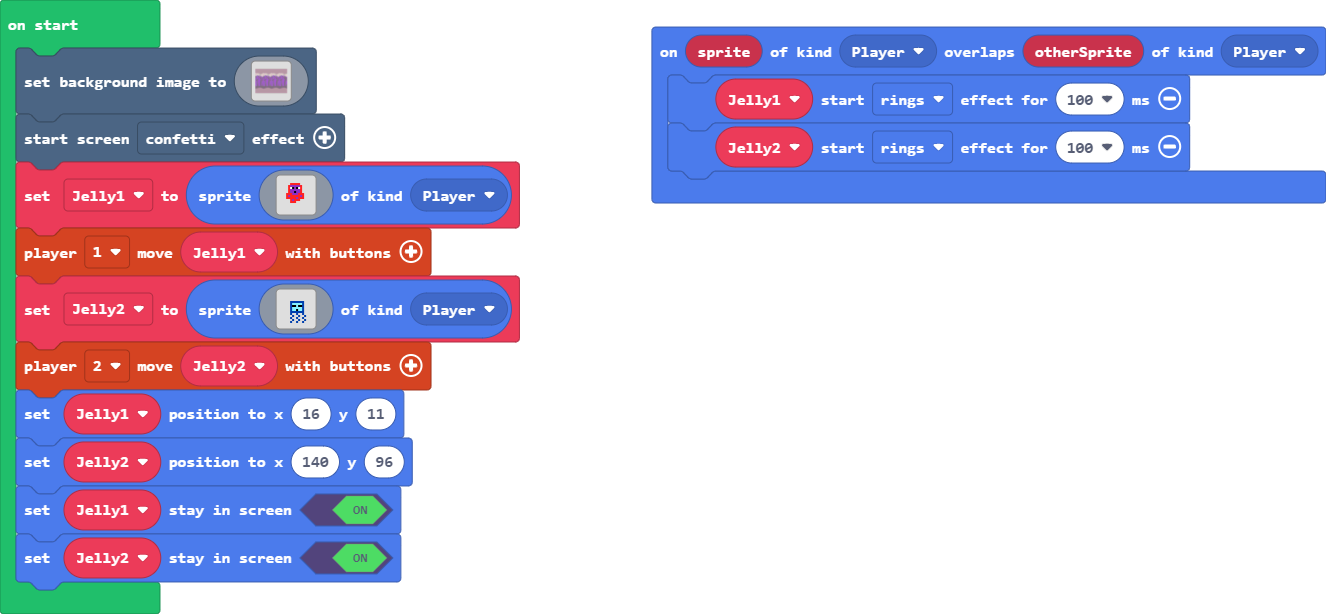
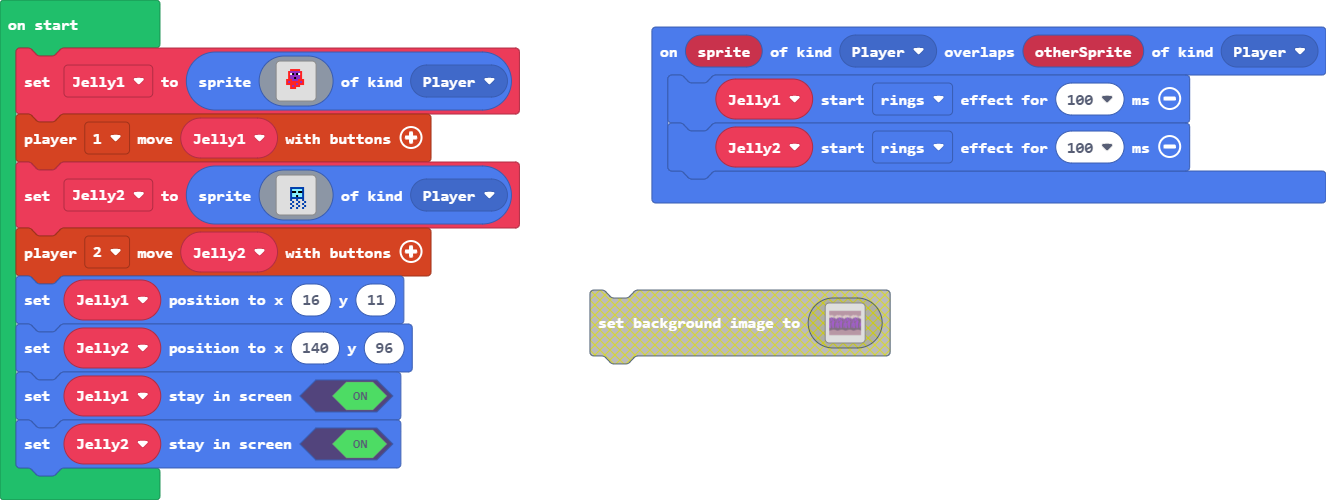
Update main.blocks, main.ts

diff --git a/main.ts b/main.ts
@@ -4,129 +4,6 @@ sprites.onOverlap(SpriteKind.Player, SpriteKind.Player, function (sprite, otherS
 })
 let Jelly2: Sprite = null
 let Jelly1: Sprite = null
-scene.setBackgroundImage(img`
-    bbbbbbbbbbbbbbbbbbbbbbbbbbbbbbbbbbbbbbbbbbbbbbbbbbbbbbbbbbbbbbbbbbbbbbbbbbbbbbbbbbbbbbbbbbbbbbbbbbbbbbbbbbbbbbbbbbbbbbbbbbbbbbbbbbbbbbbbbbbbbbbbbbbbbbbbbbbbbbbb
-    bbbbbbbbbbbbbbbbbbbbbbbbbbbbbbbbbbbbbbbbbbbbbbbbbbbbbbbbbbbbbbbbbbbbbbbbbbbbbbbbbbbbbbbbbbbbbbbbbbbbbbbbbbbbbbbbbbbbbbbbbbbbbbbbbbbbbbbbbbbbbbbbbbbbbbbbbbbbbbbb
-    bbbbbbbbbbbbbbbbbbbbbbbbbbbbbbbbbbbbbbbbbbbbbbbbbbbbbbbbbbbbbbbbbbbbbbbbbbbbbbbbbbbbbbbbbbbbbbbbbbbbbbbbbbbbbbbbbbbbbbbbbbbbbbbbbbbbbbbbbbbbbbbbbbbbbbbbbbbbbbbb
-    bbbbbbbbbbbbbbbbbbbbbbbbbbbbbbbbbbbbbbbbbbbbbbbbbbbbbbbbbbbbbbbbbbbbbbbbbbbbbbbbbbbbbbbbbbbbbbbbbbbbbbbbbbbbbbbbbbbbbbbbbbbbbbbbbbbbbbbbbbbbbbbbbbbbbbbbbbbbbbbb
-    bbbbbbbbbbbbbbbbbbbbbbbbbbbbbbbbbbbbbbbbbbbbbbbbbbbbbbbbbbbbbbbbbbbbbbbbbbbbbbbbbbbbbbbbbbbbbbbbbbbbbbbbbbbbbbbbbbbbbbbbbbbbbbbbbbbbbbbbbbbbbbbbbbbbbbbbbbbbbbbb
-    bbbbbbbbbbbbbbbbbbbbbbbbbbbbbbbbbbbbbbbbbbbbbbbbbbbbbbbbbbbbbbbbbbbbbbbbbbbbbbbbbbbbbbbbbbbbbbbbbbbbbbbbbbbbbbbbbbbbbbbbbbbbbbbbbbbbbbbbbbbbbbbbbbbbbbbbbbbbbbbb
-    bbbbbbbbbbbbbbbbbbbbbbbbbbbbbbbbbbbbbbbbbbbbbbbbbbbbbbbbbbbbbbbbbbbbbbbbbbbbbbbbbbbbbbbbbbbbbbbbbbbbbbbbbbbbbbbbbbbbbbbbbbbbbbbbbbbbbbbbbbbbbbbbbbbbbbbbbbbbbbbb
-    bbbbbbbbbbbbbbbbbbbbbbbbbbbbbbbbbbbbbbbbbbbbbbbbbbbbbbbbbbbbbbbbbbbbbbbbbbbbbbbbbbbbbbbbbbbbbbbbbbbbbbbbbbbbbbbbbbbbbbbbbbbbbbbbbbbbbbbbbbbbbbbbbbbbbbbbbbbbbbbb
-    bbbbbbbbbbbbbbbbbbbbbbbbbbbbbbbbbbbbbbbbbbbbbbbbbbbbbbbbbbbbbbbbbbbbbbbbbbbbbbbbbbbbbbbbbbbbbbbbbbbbbbbbbbbbbbbbbbbbbbbbbbbbbbbbbbbbbbbbbbbbbbbbbbbbbbbbbbbbbbbb
-    bbbbbbbbbbbbbbbbbbbbbbbbbbbbbbbbbbbbbbbbbbbbbbbbbbbbbbbbbbbbbbbbbbbbbbbbbbbbbbbbbbbbbbbbbbbbbbbbbbbbbbbbbbbbbbbbbbbbbbbbbbbbbbbbbbbbbbbbbbbbbbbbbbbbbbbbbbbbbbbb
-    bbbbbbbbbbbbbbbbbbbbbbbbbbbbbbbbbbbbbbbbbbbbbbbbbbbbbbbbbbbbbbbbbbbbbbbbbbbbbbbbbbbbbbbbbbbbbbbbbbbbbbbbbbbbbbbbbbbbbbbbbbbbbbbbbbbbbbbbbbbbbbbbbbbbbbbbbbbbbbbb
-    bbbbbbbbbbbbbbbbbbbbbbbbbbbbbbbbbbbbbbbbbbbbbbbbbbbbbbbbbbbbbbbbbbbbbbbbbbbbbbbbbbbbbbbbbbbbbbbbbbbbbbbbbbbbbbbbbbbbbbbbbbbbbbbbbbbbbbbbbbbbbbbbbbbbbbbbbbbbbbbb
-    bbbbbbbbbbbbbbbbbbbbbbbbbbbbbbbbbbbbbbbbbbbbbbbbbbbbbbbbbbbbbbbbbbbbbbbbbbbbbbbbbbbbbbbbbbbbbbbbbbbbbbbbbbbbbbbbbbbbbbbbbbbbbbbbbbbbbbbbbbbbbbbbbbbbbbbbbbbbbbbb
-    bbbbbbbbbbbbbbbbbbbbbbbbbbbbbbbbbbbbbbbbbbbbbbbbbbbbbbbbbbbbbbbbbbbbbbbbbbbbbbbbbbbbbbbbbbbbbbbbbbbbbbbbbbbbbbbbbbbbbbbbbbbbbbbbbbbbbbbbbbbbbbbbbbbbbbbbbbbbbbbb
-    bbbbbbbbbbbbbbbbbbbbbbbbbbbbbbbbbbbbbbbbbbbbbbbbbbbbbbbbbbbbbbbbbbbbbbbbbbbbbbbbbbbbbbbbbbbbbbbbbbbbbbbbbbbbbbbbbbbbbbbbbbbbbbbbbbbbbbbbbbbbbbbbbbbbbbbbbbbbbbbb
-    bbbbbbbbbbbbbbbbbbbbbbbbbbbbbbbbbbbbbbbbbbbbbbbbbbbbbbbbbbbbbbbbbbbbbbbbbbbbbbbbbbbbbbbbbbbbbbbbbbbbbbbbbbbbbbbbbbbbbbbbbbbbbbbbbbbbbbbbbbbbbbbbbbbbbbbbbbbbbbbb
-    bbbbbbbbbbbbbbbbbbbbbbbbbbbbbbbbbbbbbbbbbbbbbbbbbbbbbbbbbbbbbbbbbbbbbbbbbbbbbbbbbbbbbbbbbbbbbbbbbbbbbbbbbbbbbbbbbbbbbbbbbbbbbbbbbbbbbbbbbbbbbbbbbbbbbbbbbbbbbbbb
-    bbbbbbbbbbbbbbbbbbbbbbbbbbbbbbbbbbbbbbbbbbbbbbbbbbbbbbbbbbbbbbbbbbbbbbbbbbbbbbbbbbbbbbbbbbbbbbbbbbbbbbbbbbbbbbbbbbbbbbbbbbbbbbbbbbbbbbbbbbbbbbbbbbbbbbbbbbbbbbbb
-    bbbbbbbbbbbbbbbbbbbbbbbbbbbbbbbbbbbbbbbbbbbbbbbbbbbbbbbbbbbbbbbbbbbbbbbbbbbbbbbbbbbbbbbbbbbbbbbbbbbbbbbbbbbbbbbbbbbbbbbbbbbbbbbbbbbbbbbbbbbbbbbbbbbbbbbbbbbbbbbb
-    bbbddbbbbbbbbbdbbbbbbbbbbbbbbbbbbbbbbbbbbbbddbbbbbbbbbdbbbbbbbbbbbbbbbbbbbbbbbbbbbbddbbbbbbbbbdbbbbbbbbbbbbbbbbbbbbbbbbbbbbddbbbbbbbbbdbbbbbbbbbbbbbbbbbbbbbbbbb
-    bdddbbbbbbbbbddbbbbbbbbbbbbbbbbbbbbbbbdbbdddbbbbbbbbbddbbbbbbbbbbbbbbbbbbbbbbbdbbdddbbbbbbbbbddbbbbbbbbbbbbbbbbbbbbbbbdbbdddbbbbbbbbbddbbbbbbbbbbbbbbbbbbbbbbb6b
[9 lines of base64/hex data omitted]
-    ddcdddddddaccddddddddaaddcccddddddddddddddcdddddddaccddddddddaaddcccddddddddddddddcdddddddaccddddddddaaddcccddddddddddddddcdddddddaccddddddddaaddcccdddddddddddd
-    ddcddddddaadccddddddccadddccddddddddddddddcddddddaaaccddddddaaadddccddddddddddddddcddddddaaaccddddddaaadddccddddddddddddddcddddddaaaccddddddaaadddccdddddddddddd
[7 lines of base64/hex data omitted]
-    cccccccaaacaaaaaaccccaaaacaccccaaaacaaadcccccccaaacaaaaaaccccaaaacaccccaaaacaaadcccccccaaacaaaaaaccccaaaacaccccaaaacaaadcccccccaaacaaaaaaccccaaaacacccccccccaaad
-    ccaccccaaccaaaaaaaccaaaaccaccccaaaacaaaaccaccccaaccaaaaaaaccaaaaccaccccaaaacaaaaccaccccaaccaaaaaaaccaaaaccaccccaaaacaaaaccaccccaaccaaaaaaaccaaaaccacccccccccaaaa
-    ccaacccccaaaaaaaaacccaaacaaacccaaaacaaaaccaacccccaaaaaaaaacccaaacaaacccaaaacaaaaccaacccccaaaaaaaaacccaaacaaacccaaaacaaaaccaacccccaaaaaaaaacccaaacaaaccccccccaaaa
-    ccaaccccaaaaaaaaaacccccccaaacccaaaacaaacccaaccccaaaaaaaaaacccccccaaacccaaaacaaacccaaccccaaaaaaaaaacccccccaaacccaaaacaaacccaaccccaaaaaaaaaacccccccaaaccccccccaaac
-    ccaacccaaaaaaaaaaaccccccaaaaccccaaacaaacccaacccaaaaaaaaaaaccccccaaaaccccaaacaaacccaacccaaaaaaaaaaaccccccaaaaccccaaacaaacccaacccaaaaaaaaaaaccccccaaaaccccccccaaac
-    ccaacccaaaaaaaaaaaccccccccaaccccaaacaaacccaacccaaaaaaaaaaaccccccccaaccccaaacaaacccaacccaaaaaaaaaaaccccccccaaccccaaacaaacccaacccaaaaaaaaaaaccccccccaaccccccccaaac
-    caaaaccaaaaaaaaaaccccccccccccccccaaacaaccaaaaccaaaaaaaaaaccccccccccccccccaaacaaccaaaaccaaaaaaaaaaccccccccccccccccaaacaaccaaaaccaaaaaaaaaaccccccccccccccccccccaac
-    caaaacccaaaaaaaaaccaaaaacccccccccaaacaaccaaaacccaaaaaaaaaccaaaaacccccccccaaacaaccaaaacccaaaaaaaaaccaaaaacccccccccaaacaaccaaaacccaaaaaaaaaccaaaaacccccccccccccaac
-    caaaaccccaaaaaaaaccaaaaaaccccccccaaacacccaaaaccccaaaaaaaaccaaaaaaccccccccaaacacccaaaaccccaaaaaaaaccaaaaaaccccccccaaacacccaaaaccccaaaaaaaaccaaaaaaccccccccccccacc
-    caaaacccccaaaaaacccaaaaaaacccccccaaacccccaaaacccccaaaaaacccaaaaaaacccccccaaacccccaaaacccccaaaaaacccaaaaaaacccccccaaacccccaaaacccccaaaaaacccaaaaaaacccccccccccccc
-    ccaaaaacccccaaaacccaaaaaaaaacccccaaaccccccaaaaacccccaaaacccaaaaaaaaacccccaaaccccccaaaaacccccaaaacccaaaaaaaaacccccaaaccccccaaaaacccccaaaacccaaaaaaaaacccccccccccc
-    acaaaaacccccccacccaaaaaaaaaacccccaaccccaacaaaaacccccccacccaaaaaaaaaacccccaaccccaacaaaaacccccccacccaaaaaaaaaacccccaaccccaacaaaaacccccccacccaaaaaaaaaaccccccccccca
-    acaaaaaaccccccccccaaaaaaaaaacccccaacccaaacaaaaaaccccccccccaaaaaaaaaacccccaacccaaacaaaaaaccccccccccaaaaaaaaaacccccaacccaaacaaaaaaccccccccccaaaaaaaaaaccccccccccaa
-    acaaaaaacccccccccaaaaaaaaaaacccccaaccaaaacaaaaaacccccccccaaaaaaaaaaacccccaaccaaaacaaaaaacccccccccaaaaaaaaaaacccccaaccaaaacaaaaaacccccccccaaaaaaaaaaacccccccccaaa
-    accaaaaacccccccaaaaaaaaaaaaacccccaacccaaaccaaaaacccccccaaaaaaaaaaaaacccccaacccaaaccaaaaacccccccaaaaaaaaaaaaacccccaacccaaaccaaaaacccccccaaaaaaaaaaaaaccccccccccaa
-    aaccaaaaccccccaaaaaaaaaaaaaacccccaacccaaaaccaaaaccccccaaaaaaaaaaaaaacccccaacccaaaaccaaaaccccccaaaaaaaaaaaaaacccccaacccaaaaccaaaaccccccaaaaaaaaaaaaaaccccccccccaa
-    aacccaaaccccccaaaaaaaaaaaaaacccccacccccaaacccaaaccccccaaaaaaaaaaaaaacccccacccccaaacccaaaccccccaaaaaaaaaaaaaacccccacccccaaacccaaaccccccaaaaaaaaaaaaaaccccccccccca
-    aaaaccccccccccaaaaaaaaaaaaaccccccacccacaaaaaccccccccccaaaaaaaaaaaaaccccccacccacaaaaaccccccccccaaaaaaaaaaaaaccccccacccacaaaaaccccccccccaaaaaaaaaaaaaccccccccccaca
-    aaaaccccccccccaaaaaaaaaaaaacccccccccaacaaaaaccccccccccaaaaaaaaaaaaacccccccccaacaaaaaccccccccccaaaaaaaaaaaaacccccccccaacaaaaaccccccccccaaaaaaaaaaaaacccccccccaaca
-    aaaaaaccccccccaaaaaaaaaaaaacccccccccaaccaaaaaaccccccccaaaaaaaaaaaaacccccccccaaccaaaaaaccccccccaaaaaaaaaaaaacccccccccaaccaaaaaaccccccccaaaaaaaaaaaaacccccccccaacc
-    caaaaaaaccccccaaaaaaaaaaaacccccccccaaaaccaaaaaaaccccccaaaaaaaaaaaacccccccccaaaaccaaaaaaaccccccaaaaaaaaaaaacccccccccaaaaccaaaaaaaccccccaaaaaaaaaaaacccccccccaaaac
-    ccaaaaaaacccccaaaaaaaaaaaacccccccccaaaaaccaaaaaaacccccaaaaaaaaaaaacccccccccaaaaaccaaaaaaacccccaaaaaaaaaaaacccccccccaaaaaccaaaaaaacccccaaaaaaaaaaaacccccccccaaaaa
-    ccaaaaaaacccccaaaaaaaaaaaaccccccccaaaaaaccaaaaaaacccccaaaaaaaaaaaaccccccccaaaaaaccaaaaaaacccccaaaaaaaaaaaaccccccccaaaaaaccaaaaaaacccccaaaaaaaaaaaaccccccccaaaaaa
-    acaaaaaaacccccaaaaaaaaaaacccccccccaaaaaaacaaaaaaacccccaaaaaaaaaaacccccccccaaaaaaacaaaaaaacccccaaaaaaaaaaacccccccccaaaaaaacaaaaaaacccccaaaaaaaaaaacccccccccaaaaaa
-    acaaaaaaacccccaaaaaaaaaaacccccccccaaaaaaacaaaaaaacccccaaaaaaaaaaacccccccccaaaaaaacaaaaaaacccccaaaaaaaaaaacccccccccaaaaaaacaaaaaaacccccaaaaaaaaaaacccccccccaaaaaa
-    acaaaaaaacccccaaaaaaaaaaacccccccccaaaaaaacaaaaaaacccccaaaaaaaaaaacccccccccaaaaaaacaaaaaaacccccaaaaaaaaaaacccccccccaaaaaaacaaaaaaacccccaaaaaaaaaaacccccccccaaaaaa
-    acaaaaaaacccccaaaaaaaaaaacccccccccaaaaaaacaaaaaaacccccaaaaaaaaaaacccccccccaaaaaaacaaaaaaacccccaaaaaaaaaaacccccccccaaaaaaacaaaaaaacccccaaaaaaaaaaacccccccccaaaaaa
-    accaaaaaacccccaaaaaaaaaaaccccccccaaaaaaaaccaaaaaacccccaaaaaaaaaaaccccccccaaaaaaaaccaaaaaacccccaaaaaaaaaaaccccccccaaaaaaaaccaaaaaacccccaaaaaaaaaaaccccccccaaaaaaa
-    accaaaaaacccccaaaaaaaaaaaccccccccaaaaaaaaccaaaaaacccccaaaaaaaaaaaccccccccaaaaaaaaccaaaaaacccccaaaaaaaaaaaccccccccaaaaaaaaccaaaaaacccccaaaaaaaaaaaccccccccaaaaaaa
-    cccaaaaaacccccaaaaaaaaaaaccccccccaaaaaaacccaaaaaacccccaaaaaaaaaaaccccccccaaaaaaacccaaaaaacccccaaaaaaaaaaaccccccccaaaaaaacccaaaaaacccccaaaaaaaaaaaccccccccaaaaaaa
-    ccaaaaaaacccccaaaaaaaaaaaccccccccaaaaaaaccaaaaaaacccccaaaaaaaaaaaccccccccaaaaaaaccaaaaaaacccccaaaaaaaaaaaccccccccaaaaaaaccaaaaaaacccccaaaaaaaaaaaccccccccaaaaaaa
-    ccaaaaaaaccccccaaaaaaaaaaccccccccaaaaaaaccaaaaaaaccccccaaaaaaaaaaccccccccaaaaaaaccaaaaaaaccccccaaaaaaaaaaccccccccaaaaaaaccaaaaaaaccccccaaaaaaaaaaccccccccaaaaaaa
-    ccaaaaaaaccccccaaaaaaaaaaccccccccaaaaaaaccaaaaaaaccccccaaaaaaaaaaccccccccaaaaaaaccaaaaaaaccccccaaaaaaaaaaccccccccaaaaaaaccaaaaaaaccccccaaaaaaaaaaccccccccaaaaaaa
-    ccaaaaaaaccccccaaaaaaaaaacccccccaaaaaaaaccaaaaaaaccccccaaaaaaaaaacccccccaaaaaaaaccaaaaaaaccccccaaaaaaaaaacccccccaaaaaaaaccaaaaaaaccccccaaaaaaaaaacccccccaaaaaaaa
-    caaaaaaaaccccccaaaaaaaaaacccccccaaaaaaaccaaaaaaaaccccccaaaaaaaaaacccccccaaaaaaaccaaaaaaaaccccccaaaaaaaaaacccccccaaaaaaaccaaaaaaaaccccccaaaaaaaaaacccccccaaaaaaac
-    caaaaaaaaccccccaaaaaaaaaacccccccaaaaaacccaaaaaaaaccccccaaaaaaaaaacccccccaaaaaacccaaaaaaaaccccccaaaaaaaaaacccccccaaaaaacccaaaaaaaaccccccaaaaaaaaaacccccccaaaaaacc
-    caaaaaaaaccccccaaaaaaaaaacccccccaaaaaacccaaaaaaaaccccccaaaaaaaaaacccccccaaaaaacccaaaaaaaaccccccaaaaaaaaaacccccccaaaaaacccaaaaaaaaccccccaaaaaaaaaacccccccaaaaaacc
-    aaaaaaaaacccccccaaaaaaaaacccccccaaaaacccaaaaaaaaacccccccaaaaaaaaacccccccaaaaacccaaaaaaaaacccccccaaaaaaaaacccccccaaaaacccaaaaaaaaacccccccaaaaaaaaacccccccaaaaaccc
-    aaaaaaaaacccccccaaaaaaaaacccccccaaaaacccaaaaaaaaacccccccaaaaaaaaacccccccaaaaacccaaaaaaaaacccccccaaaaaaaaacccccccaaaaacccaaaaaaaaacccccccaaaaaaaaacccccccaaaaaccc
-    aaaaaaaaacccccccaaaaaaaaacccccccaaaaacccaaaaaaaaacccccccaaaaaaaaacccccccaaaaacccaaaaaaaaacccccccaaaaaaaaacccccccaaaaacccaaaaaaaaacccccccaaaaaaaaacccccccaaaaaccc
-    aaaaaaaaaccccccccaaaaaaaacccccccaaaaccccaaaaaaaaaccccccccaaaaaaaacccccccaaaaccccaaaaaaaaaccccccccaaaaaaaacccccccaaaaccccaaaaaaaaaccccccccaaaaaaaacccccccaaaacccc
-    aaaaaaaaaccccccccaaaaaaaacccccccaaaaccccaaaaaaaaaccccccccaaaaaaaacccccccaaaaccccaaaaaaaaaccccccccaaaaaaaacccccccaaaaccccaaaaaaaaaccccccccaaaaaaaacccccccaaaacccc
-    aaaaaaaaaccccccccaaaaaaaacccccccaaaacccaaaaaaaaaaccccccccaaaaaaaacccccccaaaacccaaaaaaaaaaccccccccaaaaaaaacccccccaaaacccaaaaaaaaaaccccccccaaaaaaaacccccccaaaacccc
-    aaaaaaaaaaccccccccaaaaaaccccccccaaaacccaaaaaaaaaaaccccccccaaaaaaccccccccaaaacccaaaaaaaaaaaccccccccaaaaaaccccccccaaaacccaaaaaaaaaaaccccccccaaaaaaccccccccaaaacccc
-    caaaaaaaaaccccccccaaaaaacccccccccccccccccaaaaaaaaaccccccccaaaaaacccccccccccccccccaaaaaaaaaccccccccaaaaaacccccccccccccccccaaaaaaaaaccccccccaaaaaacccccccccccccccc
-    cccccaaaaaccccccccaaaaaacccccccccccccccccccccaaaaaccccccccaaaaaacccccccccccccccccccccaaaaaccccccccaaaaaacccccccccccccccccccccaaaaaccccccccaaaaaacccccccccccccccc
-    ccccccccaacccccccccaaaccccccccccccccccccccccccccaacccccccccaaaccccccccccccccccccccccccccaacccccccccaaaccccccccccccccccccccccccccaacccccccccaaacccccccccccccccccc
-    cccccccccccccccccccacccccccccccccccccccccccccccccccccccccccacccccccccccccccccccccccccccccccccccccccacccccccccccccccccccccccccccccccccccccccacccccccccccccccccccc
-    cccccccccccccccccccccccccccccccccccccccccccccccccccccccccccccccccccccccccccccccccccccccccccccccccccccccccccccccccccccccccccccccccccccccccccccccccccccccccccccccc
-    cccccccccccccccccccccccccccccccccccccccccccccccccccccccccccccccccccccccccccccccccccccccccccccccccccccccccccccccccccccccccccccccccccccccccccccccccccccccccccccccc
-    cccccccccccccccccccccccccccccccccccccccccccccccccccccccccccccccccccccccccccccccccccccccccccccccccccccccccccccccccccccccccccccccccccccccccccccccccccccccccccccccc
-    cccccccccccccccccccccccccccccccccccccccccccccccccccccccccccccccccccccccccccccccccccccccccccccccccccccccccccccccccccccccccccccccccccccccccccccccccccccccccccccccc
-    cccccccccccccccccccccccccccccccccccccccccccccccccccccccccccccccccccccccccccccccccccccccccccccccccccccccccccccccccccccccccccccccccccccccccccccccccccccccccccccccc
-    cccccccccccccccccccccccccccccccccccccccccccccccccccccccccccccccccccccccccccccccccccccccccccccccccccccccccccccccccccccccccccccccccccccccccccccccccccccccccccccccc
-    cccccccccccccccccccccccccccccccccccccccccccccccccccccccccccccccccccccccccccccccccccccccccccccccccccccccccccccccccccccccccccccccccccccccccccccccccccccccccccccccc
-    cccccccccccccccccccbbbbbbbbbbccccccccccccccccccccccccccccccbbbbbbbbbbccccccccccccccccccccccccccccccbbbbbbbbbbccccccccccccccccccccccccccccccbbbbbbbbbbccccccccccc
-    ccccccccccccccbbbbbbbbbbbbbbbbbbbbccccccccccccccccccccbbbbbbbbbbbbbbbbbbbbccccccccccccccccccccbbbbbbbbbbbbbbbbbbbbccccccccccccccccccccbbbbbbbbbbbbbbbbbbbbcccccc
-    cccccccccccbbbbbbbbbbbbbbbbbbbbbbbbbcccccccccccccccbbbbbbbbbbbbbbbbbbbbbbbbbcccccccccccccccbbbbbbbbbbbbbbbbbbbbbbbbbcccccccccccccccbbbbbbbbbbbbbbbbbbbbbbbbbcccc
-    ccccccccbbbbbbbbbbbbbbbbbbbbbbbbbbbbbbccccccccccbbbbbbbbbbbbbbbbbbbbbbbbbbbbbbccccccccccbbbbbbbbbbbbbbbbbbbbbbbbbbbbbbccccccccccbbbbbbbbbbbbbbbbbbbbbbbbbbbbbbcc
-    cccccbbbbbbbbbbbbbbbbbbbbbbbbbbbbbbbbbbbcccccbbbbbbbbbbbbbbbbbbbbbbbbbbbbbbbbbbbcccccbbbbbbbbbbbbbbbbbbbbbbbbbbbbbbbbbbbcccccbbbbbbbbbbbbbbbbbbbbbbbbbbbbbbbbbbb
-    bbbbbbbbbbbbbbbbbbbbbbbbbbbbbbbbbbbbbbbbbbbbbbbbbbbbbbbbbbbbbbbbbbbbbbbbbbbbbbbbbbbbbbbbbbbbbbbbbbbbbbbbbbbbbbbbbbbbbbbbbbbbbbbbbbbbbbbbbbbbbbbbbbbbbbbbbbbbbbbb
-    bbbbbbbbbbbbbbbbbbbbbbbbbbbbbbbbbbbbbbbbbbbbbbbbbbbbbbbbbbbbbbbbbbbbbbbbbbbbbbbbbbbbbbbbbbbbbbbbbbbbbbbbbbbbbbbbbbbbbbbbbbbbbbbbbbbbbbbbbbbbbbbbbbbbbbbbbbbbbbbb
-    bbbbbbbbbbbbbbbbbbbbbbbbbbbbbbbbbbbbbbbbbbbbbbbbbbbbbbbbbbbbbbbbbbbbbbbbbbbbbbbbbbbbbbbbbbbbbbbbbbbbbbbbbbbbbbbbbbbbbbbbbbbbbbbbbbbbbbbbbbbbbbbbbbbbbbbbbbbbbbbb
-    bbbbbbbbbbbbbbbbbbbbbbbbbbbbbbbbbbbbbbbbbbbbbbbbbbbbbbbbbbbbbbbbbbbbbbbbbbbbbbbbbbbbbbbbbbbbbbbbbbbbbbbbbbbbbbbbbbbbbbbbbbbbbbbbbbbbbbbbbbbbbbbbbbbbbbbbbbbbbbbb
-    bbbbbbbbbbbbbbbbbbbbbbbbbbbbbbbbbbbbbbbbbbbbbbbbbbbbbbbbbbbbbbbbbbbbbbbbbbbbbbbbbbbbbbbbbbbbbbbbbbbbbbbbbbbbbbbbbbbbbbbbbbbbbbbbbbbbbbbbbbbbbbbbbbbbbbbbbbbbbbbb
-    bbbbbbbbbbbbbbbbbbbbbbbbbbbbbbbbbbbbbbbbbbbbbbbbbbbbbbbbbbbbbbbbbbbbbbbbbbbbbbbbbbbbbbbbbbbbbbbbbbbbbbbbbbbbbbbbbbbbbbbbbbbbbbbbbbbbbbbbbbbbbbbbbbbbbbbbbbbbbbbb
-    bbbbbbbbbbbbbbbbbbbbbbbbbbbbbbbbbbbbbbbbbbbbbbbbbbbbbbbbbbbbbbbbbbbbbbbbbbbbbbbbbbbbbbbbbbbbbbbbbbbbbbbbbbbbbbbbbbbbbbbbbbbbbbbbbbbbbbbbbbbbbbbbbbbbbbbbbbbbbbbb
-    bbbbbbbbbbbbbbbbbbbbbbbbbbbbbbbbbbbbbbbbbbbbbbbbbbbbbbbbbbbbbbbbbbbbbbbbbbbbbbbbbbbbbbbbbbbbbbbbbbbbbbbbbbbbbbbbbbbbbbbbbbbbbbbbbbbbbbbbbbbbbbbbbbbbbbbbbbbbbbbb
-    bbbbbbbbbbbbbbbbbbbbbbbbbbbbbbbbbbbbbbbbbbbbbbbbbbbbbbbbbbbbbbbbbbbbbbbbbbbbbbbbbbbbbbbbbbbbbbbbbbbbbbbbbbbbbbbbbbbbbbbbbbbbbbbbbbbbbbbbbbbbbbbbbbbbbbbbbbbbbbbb
-    bbbbbbbbbbbbbbbbbbbbbbbbbbbbbbbbbbbbbbbbbbbbbbbbbbbbbbbbbbbbbbbbbbbbbbbbbbbbbbbbbbbbbbbbbbbbbbbbbbbbbbbbbbbbbbbbbbbbbbbbbbbbbbbbbbbbbbbbbbbbbbbbbbbbbbbbbbbbbbbb
-    bbbbbbbbbbbbbbbbbbbbbbbbbbbbbbbbbbbbbbbbbbbbbbbbbbbbbbbbbbbbbbbbbbbbbbbbbbbbbbbbbbbbbbbbbbbbbbbbbbbbbbbbbbbbbbbbbbbbbbbbbbbbbbbbbbbbbbbbbbbbbbbbbbbbbbbbbbbbbbbb
-    bbbbbbbbbbbbbbbbbbbbbbbbbbbbbbbbbbbbbbbbbbbbbbbbbbbbbbbbbbbbbbbbbbbbbbbbbbbbbbbbbbbbbbbbbbbbbbbbbbbbbbbbbbbbbbbbbbbbbbbbbbbbbbbbbbbbbbbbbbbbbbbbbbbbbbbbbbbbbbbb
-    bbbbbbbbbbbbbbbbbbbbbbbbbbbbbbbbbbbbbbbbbbbbbbbbbbbbbbbbbbbbbbbbbbbbbbbbbbbbbbbbbbbbbbbbbbbbbbbbbbbbbbbbbbbbbbbbbbbbbbbbbbbbbbbbbbbbbbbbbbbbbbbbbbbbbbbbbbbbbbbb
-    bbbbbbbbbbbbbbbbbbbbbbbbbbbbbbbbbbbbbbbbbbbbbbbbbbbbbbbbbbbbbbbbbbbbbbbbbbbbbbbbbbbbbbbbbbbbbbbbbbbbbbbbbbbbbbbbbbbbbbbbbbbbbbbbbbbbbbbbbbbbbbbbbbbbbbbbbbbbbbbb
-    bbbbbbbbbbbbbbbbbbbbbbbbbbbbbbbbbbbbbbbbbbbbbbbbbbbbbbbbbbbbbbbbbbbbbbbbbbbbbbbbbbbbbbbbbbbbbbbbbbbbbbbbbbbbbbbbbbbbbbbbbbbbbbbbbbbbbbbbbbbbbbbbbbbbbbbbbbbbbbbb
-    bbbbbbbbbbbbbbbbbbbbbbbbbbbbbbbbbbbbbbbbbbbbbbbbbbbbbbbbbbbbbbbbbbbbbbbbbbbbbbbbbbbbbbbbbbbbbbbbbbbbbbbbbbbbbbbbbbbbbbbbbbbbbbbbbbbbbbbbbbbbbbbbbbbbbbbbbbbbbbbb
-    bbbbbbbbbbbbbbbbbbbbbbbbbbbbbbbbbbbbbbbbbbbbbbbbbbbbbbbbbbbbbbbbbbbbbbbbbbbbbbbbbbbbbbbbbbbbbbbbbbbbbbbbbbbbbbbbbbbbbbbbbbbbbbbbbbbbbbbbbbbbbbbbbbbbbbbbbbbbbbbb
-    bbbbbbbbbbbbbbbbbbbbbbbbbbbbbbbbbbbbbbbbbbbbbbbbbbbbbbbbbbbbbbbbbbbbbbbbbbbbbbbbbbbbbbbbbbbbbbbbbbbbbbbbbbbbbbbbbbbbbbbbbbbbbbbbbbbbbbbbbbbbbbbbbbbbbbbbbbbbbbbb
-    bbbbbbbbbbbbbbbbbbbbbbbbbbbbbbbbbbbbbbbbbbbbbbbbbbbbbbbbbbbbbbbbbbbbbbbbbbbbbbbbbbbbbbbbbbbbbbbbbbbbbbbbbbbbbbbbbbbbbbbbbbbbbbbbbbbbbbbbbbbbbbbbbbbbbbbbbbbbbbbb
-    bbbbbbbbbbbbbbbbbbbbbbbbbbbbbbbbbbbbbbbbbbbbbbbbbbbbbbbbbbbbbbbbbbbbbbbbbbbbbbbbbbbbbbbbbbbbbbbbbbbbbbbbbbbbbbbbbbbbbbbbbbbbbbbbbbbbbbbbbbbbbbbbbbbbbbbbbbbbbbbb
-    bbbbbbbbbbbbbbbbbbbbbbbbbbbbbbbbbbbbbbbbbbbbbbbbbbbbbbbbbbbbbbbbbbbbbbbbbbbbbbbbbbbbbbbbbbbbbbbbbbbbbbbbbbbbbbbbbbbbbbbbbbbbbbbbbbbbbbbbbbbbbbbbbbbbbbbbbbbbbbbb
-    `)
-effects.confetti.startScreenEffect()
 Jelly1 = sprites.create(img`
     . . . . . . . . . . . . . . . . 
     . . . . . . . . . . . . . . . . 
